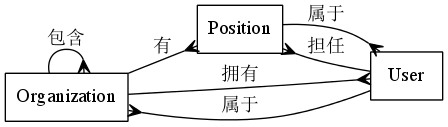
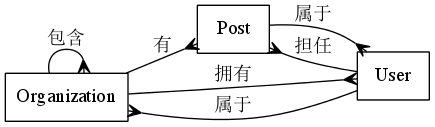
delte role add post

diff --git a/db/migrate/20131020014829_create_organizations.rb b/db/migrate/20131020014829_create_organizations.rb
@@ -1,0 +1,8 @@
+class CreateOrganizations < ActiveRecord::Migration
+  def change
+    create_table :organizations do |t|
+      t.string :name
+      t.timestamps
+    end
+  end
+end

diff --git a/test/models/organization_test.rb b/test/models/organization_test.rb
@@ -1,0 +1,7 @@
+require 'test_helper'
+
+class OrganizationTest < ActiveSupport::TestCase
+  # test "the truth" do
+  #   assert true
+  # end
+end

diff --git a/app/models/organization.rb b/app/models/organization.rb
@@ -1,0 +1,2 @@
+class Organization < ActiveRecord::Base
+end
